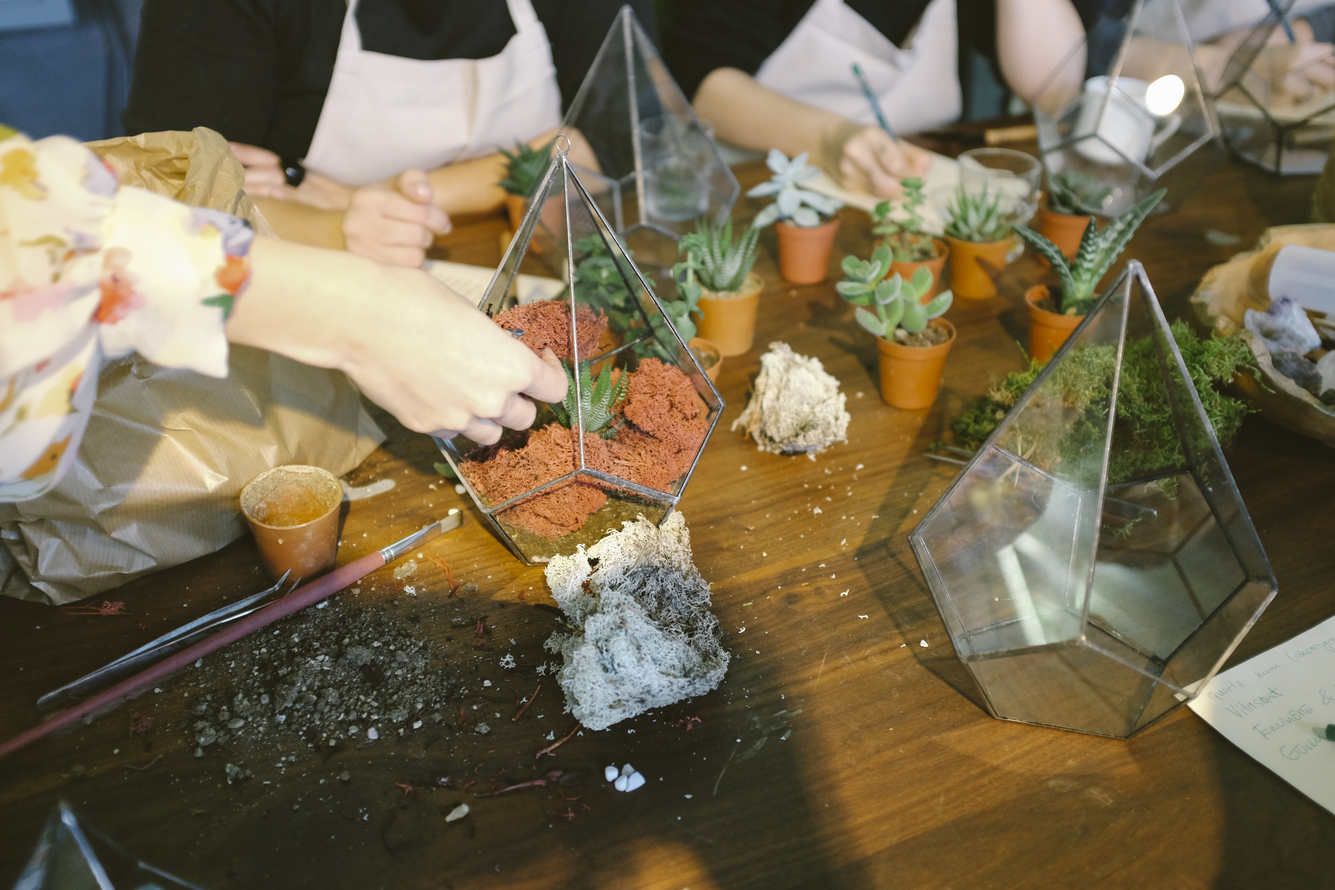
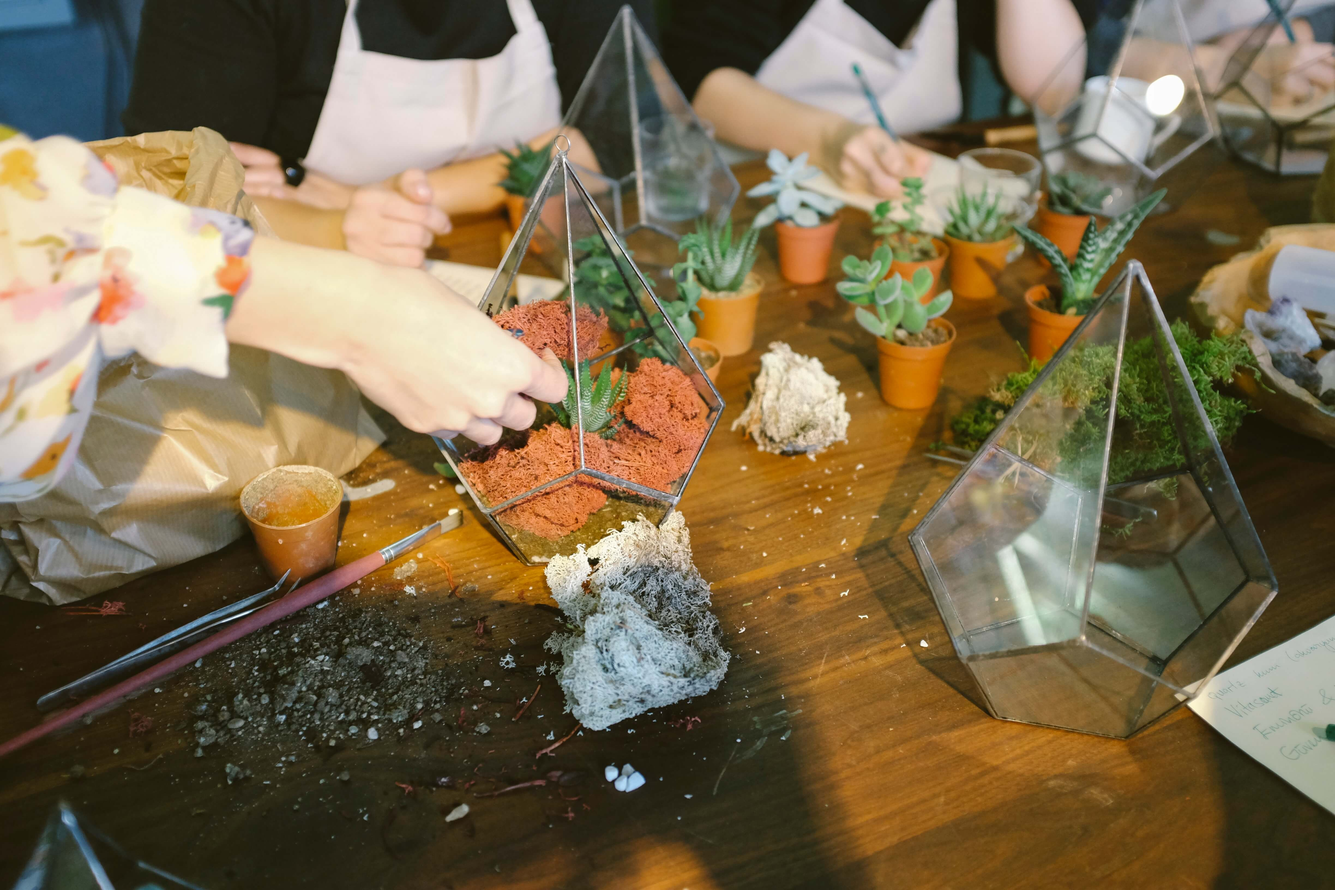
Changed index and added userProfile

diff --git a/css/style.css b/css/style.css
@@ -303,7 +303,7 @@ textarea:focus, input:focus{
 
 /*index page*/
 .hero{
-	background: url('../images/bag-and-hands-2.jpg') center center no-repeat;
+	background: url('../images/bag-and-hands.jpg') center center no-repeat;
 	width: 100vw;
 	height: 40vh;
 	background-size: cover;
@@ -400,6 +400,26 @@ textarea:focus, input:focus{
 #index-content a:hover{
 	color: black;
 }
+
+#logged-in{
+	margin: 0 auto;
+	text-align: center;
+	margin-top: 10vh;
+}
+
+#logged-in a{
+		letter-spacing: 0.1em;
+	text-transform: uppercase;
+	text-decoration: none;
+	color: grey;
+	font-size: 0.8em;
+}
+
+#logged-in a:hover{
+	color: black;
+}
+
+
 /*index page*/
 
 
@@ -649,4 +669,60 @@ textarea:focus, input:focus{
 
 
 
+/*User Profile Page*/
+
+.upcoming-classes{
+	margin-left: 20vw;
+	margin-top: 50px;
+}
+
+
+.class{
+	display: inline-block;
+	width: 30vw;
+	margin-left: 5vw;
+}
+
+#sign-up-for-classes{
+	margin-top: 100px;
+	padding: 10px 20px;
+	background-color: #0091C5;
+	border: thin solid #0091C5;
+	color: white; 
+}
+
+#sign-up-for-classes:hover{
+	color: #0091C5;
+	background-color: white;
+}
+
+#become-educator{
+	margin-bottom: 100px;
+	margin-top: 20px;
+	padding: 10px 33px;
+	background-color: #0091C5;
+	border: thin solid #0091C5;
+	color: white;  
+}
+
+#become-educator:hover{
+	color: #0091C5;
+	background-color: white;	
+}
+
+a #go-to-course, a #drop-course{
+	text-decoration: none;
+	color: black;
+}
+
+a #go-to-course:hover, a #drop-course:hover{
+	background-color: #110E3F;
+	border: #110E3F thin solid;
+	color:white;
+}
+
+.profile-buttons{
+	text-align: center;
+}
+/*User Profile Page*/
 

diff --git a/js/global.js b/js/global.js
@@ -1,5 +1,4 @@
 $(document).ready(function(){
-	$('#logged-in').hide();
 	$('#registerFormWrapper3').hide();
 });
 

diff --git a/userProfile.php b/userProfile.php
@@ -72,7 +72,7 @@
             $_SESSION['user'] = $row; 
              
             header("Location: userprofile.php"); 
-            die("Redirecting to: userprofile.php");  
+            die("Redirecting to: userprofile.php"); 
         } 
         else 
         { 
@@ -164,47 +164,68 @@ if(empty($_SESSION['user'])) : ?>
 <!-- content -->
 <div id="profile-name">
     <h2><strong><?php echo $firstname . ' ' . $lastname; ?></strong></h2>
-        <h5>Vancouver, BC</h5>
-            <hr>
 </div>
+        <hr>
 
-<div class="left" id="profile-left">
-        <div class="bio">
-            <h3><strong>BIO</strong></h3>
-            <p>Lorem ipsum dolor sit amet, consectetur adipiscing elit. Maecenas
-        et augue interdum, facilisis leo consequat, posuere sem. Ut sed
-        leo vel tellus faucibus euismod. In et enim cursus, rhoncus libero
-        sed, ornare elit. Sed nec quam rutrum, interdum augue vitae, porttitor
-        purus. Aliquam et ipsum risus.</p>
-        </div>
+<!--             <div class="upcoming-classes">
+                <h2><strong>Upcoming Classes</strong></h2>
+                <a href="">
+                    <div class="class" id="class-1">
+                        <h3><strong><a href="class.php">Mushrooming 101</a></strong></h3>
+                        <p>February 11th, 2016</p>
+                        <p>7pm-8pm</p>
+                        <p>The Bush</p>
+                    </div>
+                </a>
 
-        <div class="hobbies">
-            <h3><strong>HOBBIES</strong></h3>
-            <ul>
-                <li>This</li>
-                <li>That</li>
-                <li>And That</li>
-            </ul>
-        </div>
+                <a href="">
+                    <div class="class" id="class-2">
+                        <h3><strong>Advanced Rock climbing</strong></h3>
+                        <p>February 15th, 2016</p>
+                        <p>2pm-3pm</p>
+                        <p>The Rock</p>
+                    </div>
+                </a>
+                </div> -->
 
-        <div class="skills">
-            <h3><strong>SKILLS</strong></h3>
-            <ul>
-                <li>Mushrooming</li>
-                <li>Gardening</li>
-                <li>Hair Flipping</li>
-            </ul>
-        </div>
-</div>
-<div class="right" id="profile-right">
-    <div class="past-classes">
-        <h2> Upcoming Classes </h2>
-        <div class="class-wrapper">
 
-        </div>
-        <button class="button" id="see-all">See All</button>
-    </div>
-</div>
+            <div class="upcoming-classes">
+                <h2><strong>Upcoming classes</strong></h2>
+                    <div class="class" id="class-1">
+                        <h3><strong>Mushrooming 101</strong></h3>
+                        <p>February 11th, 2016</p>
+                        <p>7pm-8pm</p>
+                        <p>The Bush</p>
+                        <div class="profile-course-buttons">
+                            <a href="class.php"><button class="button" id="go-to-course">Course Description</button></a>
+                            <button class="button" id="drop-course">Drop Course</button>
+                        </div>
+                    </div>
+
+                    <div class="class" id="class-2">
+                        <h3><strong>Advanced Rock Climbing</strong></h3>
+                        <p>February 15th, 2016</p>
+                        <p>2pm-3pm</p>
+                        <p>The Rock</p>
+                        <div class="profile-course-buttons">
+                            <a href="class.php"><button class="button" id="go-to-course">Course Description</button></a>
+                            <button class="button" id="drop-course">Drop Course</button>
+                        </div>
+                    </div>
+             </div> <!-- End of upcoming classes -->
+
+
+
+                <div class="profile-buttons">
+                    <button class="button" id="sign-up-for-classes">Sign up for more classes</button>
+                </div>
+
+
+                <div class="profile-buttons">
+                    <button class="button" id="become-educator">Become an educator</button>
+                </div>
+
+
 <!-- content -->
 
 <!-- footer -->

diff --git a/aboutUs.php b/aboutUs.php
@@ -71,8 +71,8 @@
              
             $_SESSION['user'] = $row; 
              
-            header("Location: myprofile.php"); 
-            die("Redirecting to: myprofile.php"); 
+            header("Location: userprofile.php"); 
+            die("Redirecting to: userprofile.php"); 
         } 
         else 
         { 
@@ -194,7 +194,7 @@ if(empty($_SESSION['user'])) : ?>
 </div>
     <div class="join-team">
                     <hr />
-        <h3>Interested in joining our team? Check out our available positions</h3>
+        <h3>Interested in joining our team? Check out our available positions.</h3>
             <button class="button" id="careers">Careers</button>
     </div>
 </div>
@@ -204,7 +204,7 @@ if(empty($_SESSION['user'])) : ?>
 
 
 <!-- footer -->
-    <div class="footer">
+    <div id="index-footer">
             <div class="footer-col" id="footer-one">
             </div>
 

diff --git a/aboutLearners.php b/aboutLearners.php
@@ -71,8 +71,8 @@
              
             $_SESSION['user'] = $row; 
              
-            header("Location: myprofile.php"); 
-            die("Redirecting to: myprofile.php"); 
+            header("Location: userprofile.php"); 
+            die("Redirecting to: userprofile.php");  
         } 
         else 
         { 

diff --git a/aboutEducators.php b/aboutEducators.php
@@ -71,8 +71,8 @@
              
             $_SESSION['user'] = $row; 
              
-            header("Location: myprofile.php"); 
-            die("Redirecting to: myprofile.php"); 
+            header("Location: userprofile.php"); 
+            die("Redirecting to: userprofile.php"); 
         } 
         else 
         { 

diff --git a/allcourses.php b/allcourses.php
@@ -71,8 +71,8 @@
              
             $_SESSION['user'] = $row; 
              
-            header("Location: myprofile.php"); 
-            die("Redirecting to: myprofile.php"); 
+            header("Location: userprofile.php"); 
+            die("Redirecting to: userprofile.php"); 
         } 
         else 
         { 

diff --git a/becomeeducator.php b/becomeeducator.php
@@ -71,8 +71,8 @@
              
             $_SESSION['user'] = $row; 
              
-            header("Location: myprofile.php"); 
-            die("Redirecting to: myprofile.php"); 
+            header("Location: userprofile.php"); 
+            die("Redirecting to: userprofile.php"); 
         } 
         else 
         { 

diff --git a/contactUs.php b/contactUs.php
@@ -71,8 +71,8 @@
              
             $_SESSION['user'] = $row; 
              
-            header("Location: myprofile.php"); 
-            die("Redirecting to: myprofile.php"); 
+            header("Location: userprofile.php"); 
+            die("Redirecting to: userprofile.php"); 
         } 
         else 
         { 

diff --git a/course.php b/course.php
@@ -71,8 +71,8 @@
              
             $_SESSION['user'] = $row; 
              
-            header("Location: myprofile.php"); 
-            die("Redirecting to: myprofile.php"); 
+            header("Location: userprofile.php"); 
+            die("Redirecting to: userprofile.php"); 
         } 
         else 
         { 

diff --git a/createCourse.php b/createCourse.php
@@ -71,8 +71,8 @@
              
             $_SESSION['user'] = $row; 
              
-            header("Location: myprofile.php"); 
-            die("Redirecting to: myprofile.php"); 
+            header("Location: userprofile.php"); 
+            die("Redirecting to: userprofile.php"); 
         } 
         else 
         { 

diff --git a/registerPage.php b/registerPage.php
@@ -71,8 +71,8 @@
              
             $_SESSION['user'] = $row; 
              
-            header("Location: myprofile.php"); 
-            die("Redirecting to: myprofile.php"); 
+            header("Location: userprofile.php"); 
+            die("Redirecting to: userprofile.php"); 
         } 
         else 
         { 
